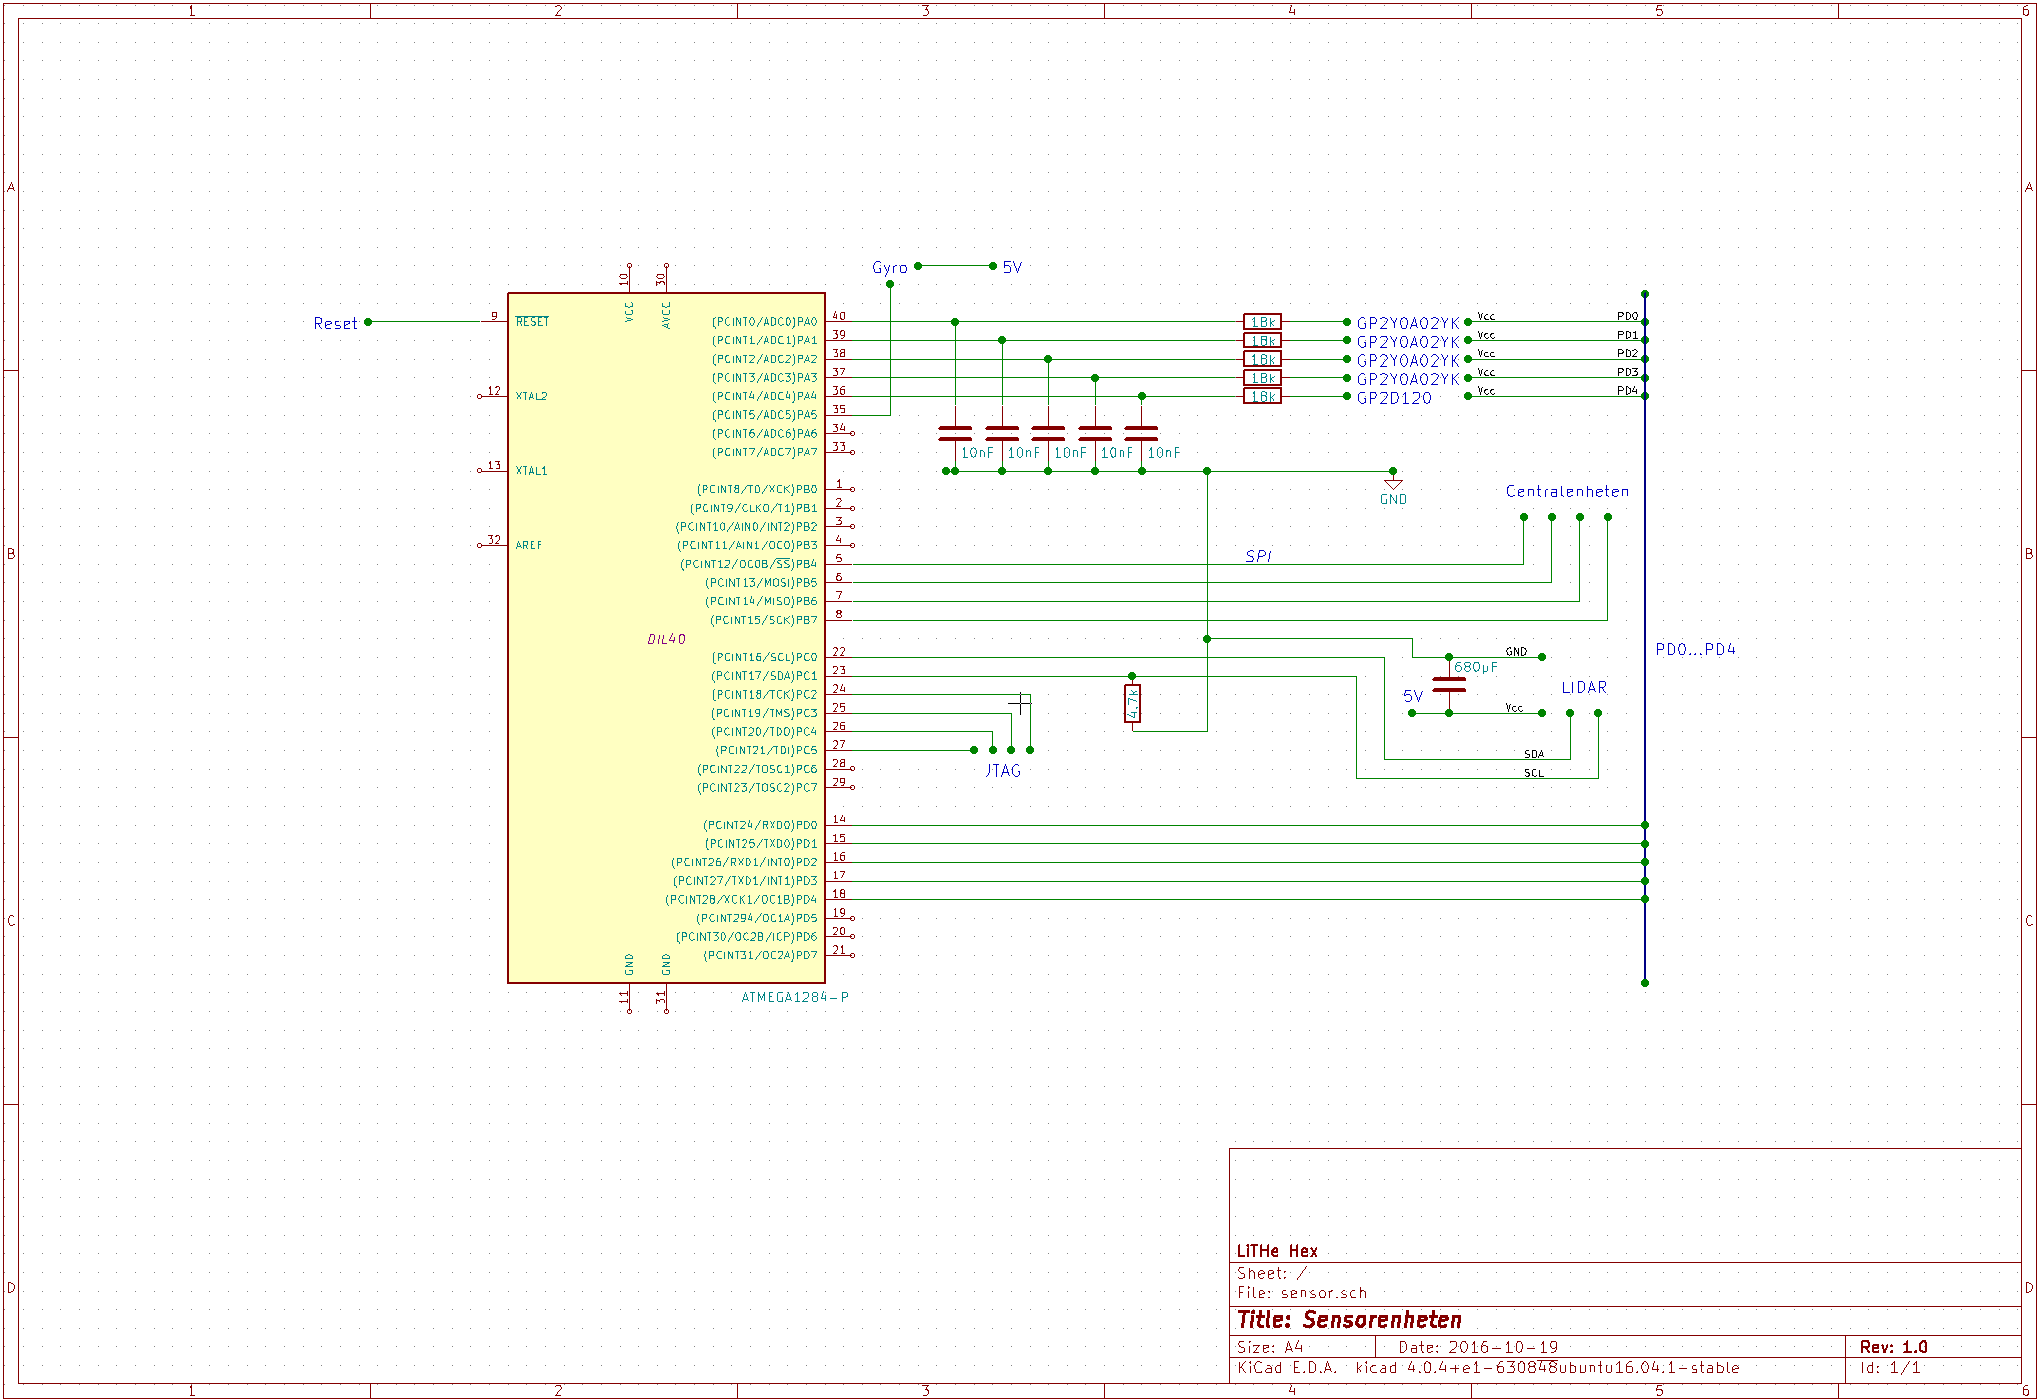
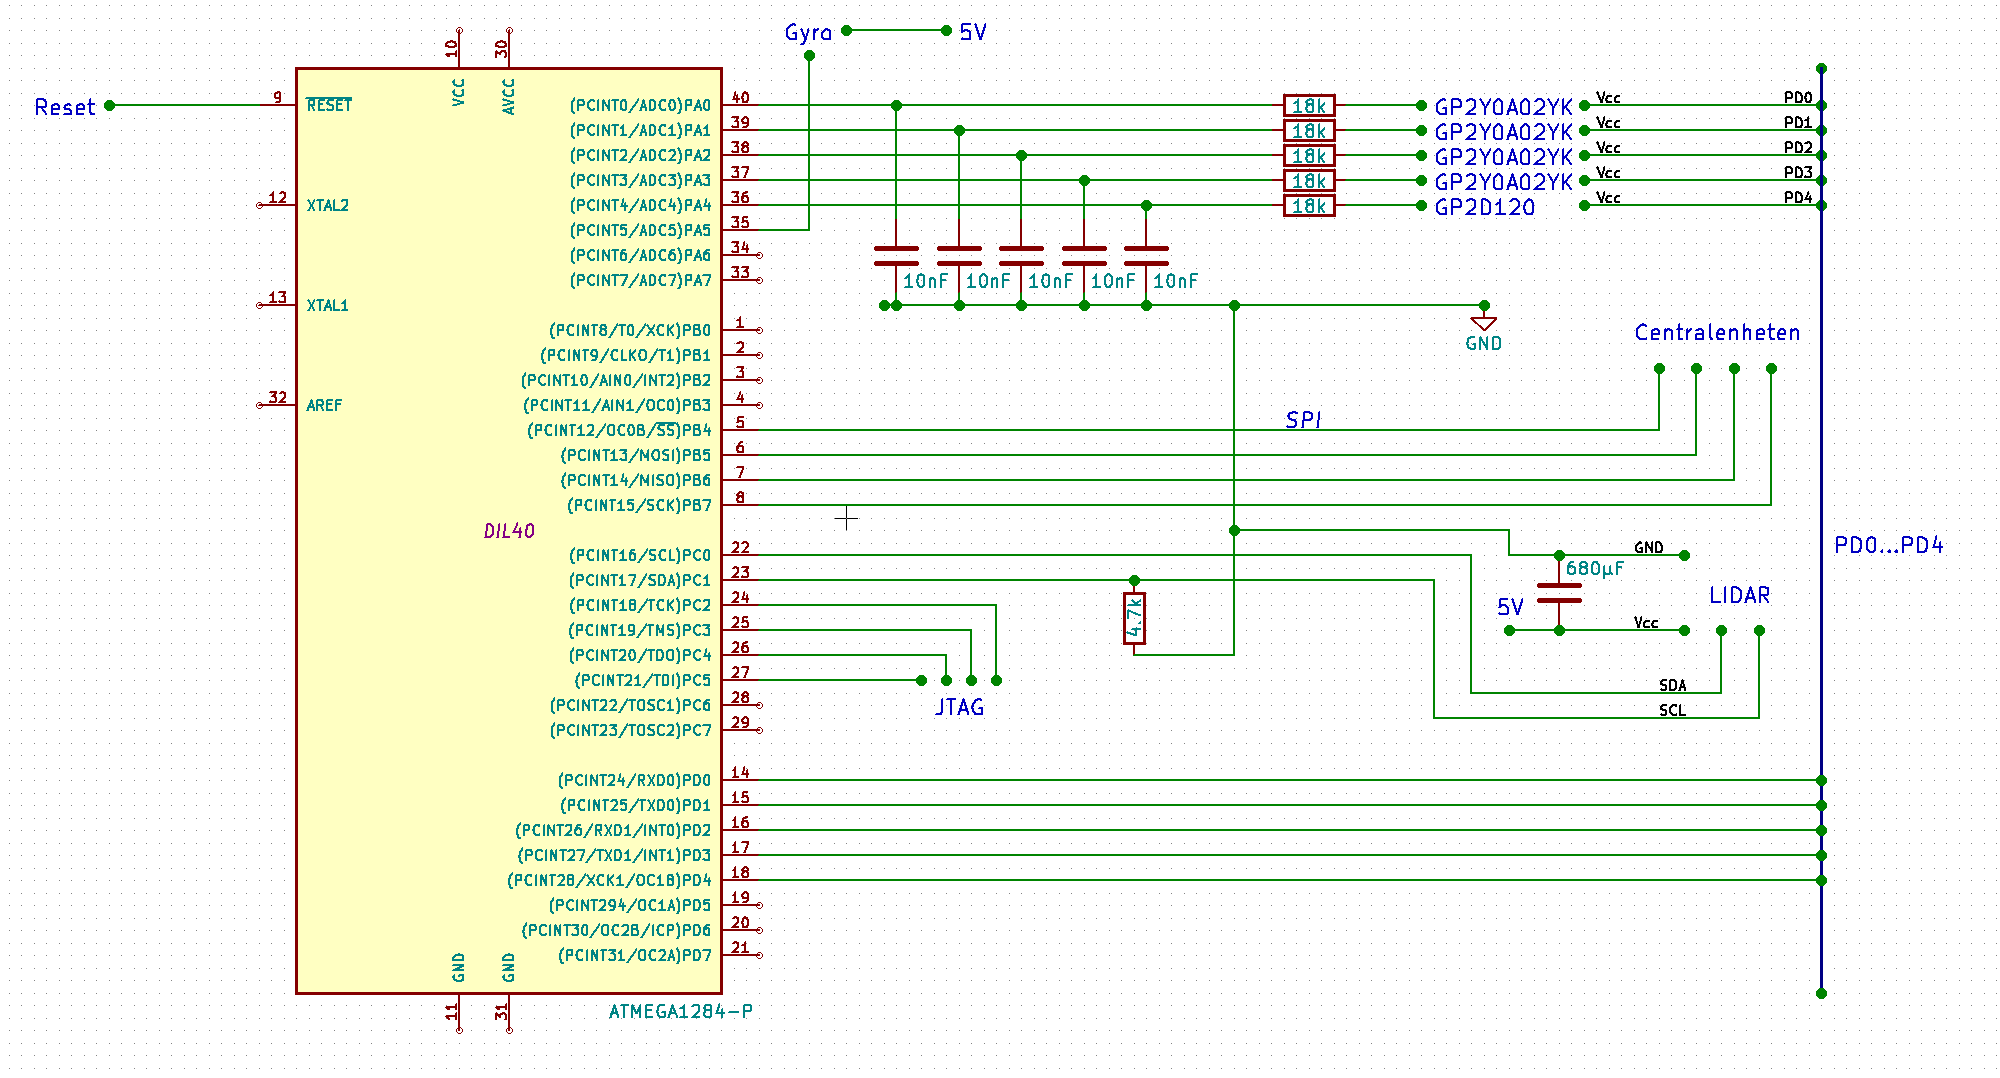
Finished designspecifikation 2

diff --git a/documents/Designspecifikation/designspecifikation.tex b/documents/Designspecifikation/designspecifikation.tex
@@ -309,6 +309,11 @@
 
 	
 	\section{Komponentbudget}
+
+    Tabell \ref{table:components} visar komponenter som kommer gå åt i
+    konstruktionen av roboten, utöver chassiet, lödplattor och andra diverse
+    mindre komponenter.
+
 	\begin{longtable}[c]{l l}
 		\textbf{Komponent} & \textbf{Antal} \\ \midrule
 		Raspberry Pi 3 & 1 \\
@@ -317,8 +322,7 @@
 		GP2Y0A02YK & 4 \\
 		MLX90609 & 1 \\
 		LIDAR-laser & 1 \\
-		Resistorer & Ej bestämt \\
-		Kondensatorer & Ej bestämt \\
+        \caption{De komponenter som beräknas att gå åt \label{table:components}}
 	\end{longtable}
 	
 	\section{Centralenheten}
@@ -429,6 +433,13 @@
 	centralenheten vara ett abstrakt gränssnitt till sensorerna. Centralenheten
 	behöver alltså inte veta exakt vilka sensorer som används, utan istället
 	läser av data som "avstånd till vägg", eller "vridning relativt väggarna".
+
+    Figur \ref{fig:schem_sensor} visar kretschema över sensorenheten.
+
+    \begin{figure}[h]
+        \includegraphics[width=15cm]{images/schematic_sensor.png}
+        \caption{Kretschema över sensorenheten\label{fig:schem_sensor}}
+    \end{figure}
 
 	\subsection{Styrenhet i sensorenheten}
 
